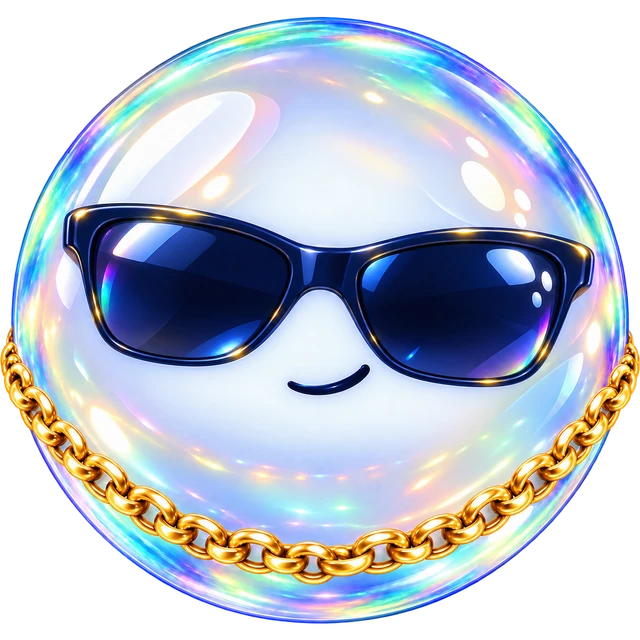
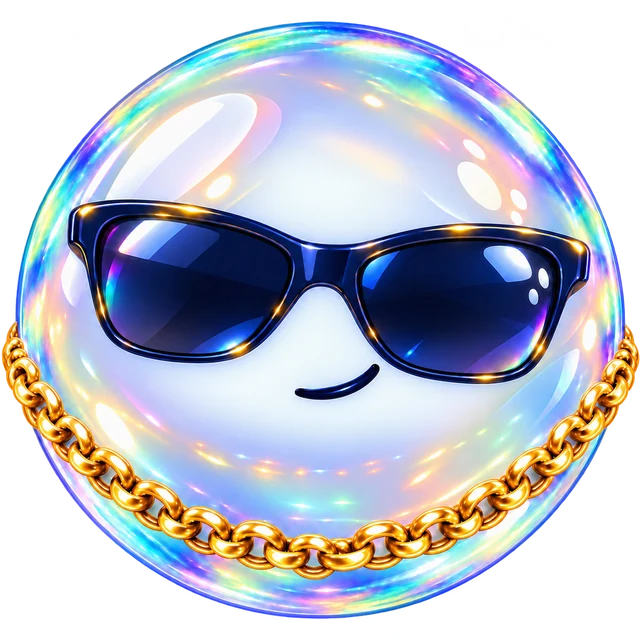
Boop's full expression set, placed where each one fits
Adds 20 new faces (soft and rainbow-rim sets) and gives them jobs:
hero idles through knowing, glance, wry and deadpan looks; tap drops the
shades (coolOh) and settles into the cool smirk; the too-late section
gets an annoyed Boop; the closing section opens on a joyful beat before
idling. Small notification icons render one fixed face with no timer, so
each instance loads only the frames it can show.

Claude-Session: https://claude.ai/code/session_01JCJ9Cii79kSKS6b9oMPbWV

diff --git a/app/site/chrome.tsx b/app/site/chrome.tsx
@@ -276,18 +276,37 @@ export function TopNav({ home = false }: { home?: boolean }) {
 /* ── Close ─────────────────────────────────────────────────────── */
 
 
-export type BoopMood = "neutral" | "knowing" | "wry" | "oh" | "happy" | "cool"
-const BOOP_FACES: BoopMood[] = ["neutral", "knowing", "wry", "oh", "happy", "cool"]
+export type BoopMood =
+  | "neutral" | "knowing" | "wry" | "glance" | "deadpan" | "oh" | "happy"
+  | "laugh" | "content" | "bliss" | "sheepish" | "annoyed" | "onit" | "skeptic" | "flat" | "peek" | "joy" | "cheer"
+  | "shades" | "boss" | "sideeye" | "wow" | "delight" | "cool" | "coolOh"
 
-/* Boop, alive: six drawn faces stacked and swapped in place. `mood`
-   overrides (hover, tap); otherwise he idles on a gentle smile and, every
-   few seconds, gives a knowing look, now and then a raised-eyebrow smirk.
-   Timers stay off under prefers-reduced-motion. */
-export function BoopFace({ mood, className = "" }: { mood?: BoopMood; className?: string }) {
+/* The bolder, rainbow-rim faces are framed wider so the chain fits; the
+   stylesheet scales them up so every bubble reads the same size. */
+const VIVID = new Set<BoopMood>(["shades", "boss", "sideeye", "wow", "delight", "cool", "coolOh"])
+const IDLE_GLANCES: BoopMood[] = ["knowing", "glance", "wry", "knowing", "deadpan"]
+
+/* Boop, alive: drawn faces stacked and swapped in place. `mood` overrides
+   (hover, tap, a section's beat); otherwise he idles on a gentle smile and,
+   every few seconds, glances: a knowing look, a sideways peek, a smirk, a
+   deadpan. `faces` preloads any extra faces a caller will switch to; `still`
+   renders one fixed face with no timer (small icons). Timers stay off under
+   prefers-reduced-motion. */
+export function BoopFace({
+  mood,
+  className = "",
+  faces = [],
+  still = false,
+}: {
+  mood?: BoopMood
+  className?: string
+  faces?: BoopMood[]
+  still?: boolean
+}) {
   const [idle, setIdle] = useState<BoopMood>("neutral")
 
   useEffect(() => {
-    if (typeof window === "undefined") return
+    if (still || typeof window === "undefined") return
     if (window.matchMedia("(prefers-reduced-motion: reduce)").matches) return
     let alive = true
     let t: ReturnType<typeof setTimeout>
@@ -295,9 +314,7 @@ export function BoopFace({ mood, className = "" }: { mood?: BoopMood; className?
     const loop = () => {
       t = setTimeout(() => {
         if (!alive) return
-        n += 1
-        const face: BoopMood = n % 3 === 0 ? "wry" : "knowing"
-        setIdle(face)
+        setIdle(IDLE_GLANCES[n++ % IDLE_GLANCES.length])
         t = setTimeout(() => {
           if (!alive) return
           setIdle("neutral")
@@ -307,15 +324,27 @@ export function BoopFace({ mood, className = "" }: { mood?: BoopMood; className?
     }
     loop()
     return () => { alive = false; clearTimeout(t) }
-  }, [])
+  }, [still])
 
   const face = mood ?? idle
+  const stack: BoopMood[] = still
+    ? [mood ?? "neutral"]
+    : Array.from(new Set<BoopMood>(["neutral", ...IDLE_GLANCES, ...faces, ...(mood ? [mood] : [])]))
   return (
     <span className={`boopFace ${className}`} aria-hidden="true">
-      {BOOP_FACES.map((f) => (
-        /* Plain <img>: six small stacked frames that must swap instantly. */
+      {stack.map((f) => (
+        /* Plain <img>: small stacked frames that must swap instantly. */
         // eslint-disable-next-line @next/next/no-img-element
-        <img key={f} src={`/assets/brand/boop/boop2-${f}.webp`} alt="" width={320} height={320} className={`${f}${f === face ? " on" : ""}`} decoding="async" />
+        <img
+          key={f}
+          src={`/assets/brand/boop/boop2-${f}.webp`}
+          alt=""
+          width={320}
+          height={320}
+          data-face={f}
+          className={`${VIVID.has(f) ? "vivid" : ""}${f === face ? " on" : ""}`}
+          decoding="async"
+        />
       ))}
     </span>
   )
@@ -323,13 +352,19 @@ export function BoopFace({ mood, className = "" }: { mood?: BoopMood; className?
 
 export function FinalCTA() {
   const [ref, inView] = useInView<HTMLDivElement>(0.4)
+  const [settled, setSettled] = useState(false)
+  useEffect(() => {
+    if (!inView) return
+    const t = setTimeout(() => setSettled(true), 2200)
+    return () => clearTimeout(t)
+  }, [inView])
 
   return (
     <section className="finalCta" ref={ref}>
       <div className="finalSky" aria-hidden="true" />
       <div className="reveal finalInner">
         <div className="finalMascot" aria-hidden="true">
-<BoopFace className="finalBoopImg" mood={inView ? undefined : "neutral"} />
+<BoopFace className="finalBoopImg" faces={["joy"]} mood={!inView ? "neutral" : settled ? undefined : "joy"} />
         </div>
         <div className={`finalArrival ${inView ? "finalArrivalIn" : ""}`} aria-hidden="true">
           <span className="finalArrivalRing" />

diff --git a/app/HomePageClient.tsx b/app/HomePageClient.tsx
@@ -253,9 +253,10 @@ const BoopBuddy = forwardRef<HTMLButtonElement, { onBoop: () => void }>(function
 ) {
   const [hops, setHops] = useState(0)
   const [hover, setHover] = useState(false)
-  const [thrilled, setThrilled] = useState(false)
-  const thrillT = useRef<ReturnType<typeof setTimeout> | undefined>(undefined)
-  useEffect(() => () => clearTimeout(thrillT.current), [])
+  /* Tap: the shades drop (a quick "oh") and settle into the cool smirk. */
+  const [tap, setTap] = useState<0 | 1 | 2>(0)
+  const thrillT = useRef<ReturnType<typeof setTimeout>[]>([])
+  useEffect(() => () => thrillT.current.forEach(clearTimeout), [])
 
   return (
     <button
@@ -267,14 +268,14 @@ const BoopBuddy = forwardRef<HTMLButtonElement, { onBoop: () => void }>(function
       onPointerLeave={() => setHover(false)}
       onClick={() => {
         setHops((h) => h + 1)
-        setThrilled(true)
-        clearTimeout(thrillT.current)
-        thrillT.current = setTimeout(() => setThrilled(false), 1700)
+        thrillT.current.forEach(clearTimeout)
+        setTap(1)
+        thrillT.current = [setTimeout(() => setTap(2), 380), setTimeout(() => setTap(0), 1900)]
         onBoop()
       }}
     >
       <span className={`boopBody ${hops > 0 ? "boopJump" : ""}`} key={`j${hops}`}>
-        <BoopFace className="boopImg" mood={thrilled ? "cool" : hover ? "oh" : undefined} />
+        <BoopFace className="boopImg" faces={["oh", "coolOh", "cool"]} mood={tap === 1 ? "coolOh" : tap === 2 ? "cool" : hover ? "oh" : undefined} />
       </span>
       <span className="boopShadow" aria-hidden="true" />
       <span className="boopCaption" key={`c${hops}-${hover && hops === 0 ? "h" : ""}`}>
@@ -845,7 +846,7 @@ function BenefitScene({ id }: { id: (typeof benefits)[number]["id"] }) {
         <div className="bsLock">
           <div className="bsLockTime">5:12</div>
           <div className="bsNotif">
-            <span className="bsNotifIcon"><BoopFace mood="neutral" /></span>
+            <span className="bsNotifIcon"><BoopFace mood="neutral" still /></span>
             <span className="bsNotifText">
               <span className="bsNotifApp">BoopThere &middot; now</span>
               <span className="bsNotifTitle">You&rsquo;re at Kroger</span>
@@ -963,7 +964,7 @@ function WhoSection() {
             <li className="whoCard" key={p.who} data-stagger>
               <span className="whoLabel">{p.who}</span>
               <div className="whoNotif" aria-hidden="true">
-                <span className="whoNotifIcon"><BoopFace mood="neutral" /></span>
+                <span className="whoNotifIcon"><BoopFace mood="neutral" still /></span>
                 <span className="whoNotifText">
                   <span className="whoNotifTitle">{p.place}</span>
                   <span className="whoNotifBody">{p.body}</span>
@@ -997,6 +998,7 @@ function ProblemSection() {
   return (
     <section className="chapter chapterSunk" id="problem">
       <div className="reveal shell narrow center">
+        <BoopFace className="lateBoop" mood="annoyed" still />
         <p className="eyebrow">The problem</p>
         <h2 className="h2 h2Center">
           You remembered.

diff --git a/app/site/chrome.css b/app/site/chrome.css
@@ -4502,15 +4502,16 @@ button.tierCta, button.priceNavCta {
   transition: opacity 70ms linear;
 }
 .boopFace img.on { opacity: 1; }
-/* Shades on: the tap payoff. The chain hangs past the bubble, so the
-   frame is wider; scale it so the bubble matches the other faces. */
-.boopFace img.cool { transform: scale(1.055); }
-.boopFace img.cool.on { animation: boopCoolOn 340ms cubic-bezier(.2,1.4,.4,1); }
+/* Rainbow-rim faces are framed wider (the chain hangs past the bubble);
+   scale them so the bubble matches the soft faces. */
+.boopFace img.vivid { transform: scale(1.048); }
+/* Shades drop: the tap payoff pops in. */
+.boopFace img[data-face="coolOh"].on { animation: boopCoolOn 320ms cubic-bezier(.2,1.4,.4,1); }
 @keyframes boopCoolOn {
-  0%   { transform: scale(.94); }
-  100% { transform: scale(1.055); }
+  0%   { transform: scale(.93); }
+  100% { transform: scale(1.048); }
 }
-@media (prefers-reduced-motion: reduce) { .boopFace img.cool.on { animation: none; } }
+@media (prefers-reduced-motion: reduce) { .boopFace img[data-face="coolOh"].on { animation: none; } }
 @keyframes boopShimmer {
   0%   { filter: hue-rotate(-10deg) saturate(1.05); }
   50%  { filter: hue-rotate(6deg) saturate(1.15) brightness(1.03); }
@@ -4784,3 +4785,8 @@ button.tierCta, button.priceNavCta {
 .whoLine { margin: 0; font-family: var(--font-display); font-weight: 600; font-size: 1.12rem; line-height: 1.3; letter-spacing: -0.012em; color: var(--ink); }
 @media (max-width: 1040px) { .whoGrid { grid-template-columns: repeat(2, minmax(0, 1fr)); } }
 @media (max-width: 560px)  { .whoGrid { grid-template-columns: 1fr; } }
+
+/* Too late: Boop is not thrilled either */
+.lateBoop { display: block; width: 88px; margin: 0 auto 14px; }
+.reveal.revealed .lateBoop { animation: lateWobble 1s cubic-bezier(.36,.07,.19,.97) .2s both; }
+@media (prefers-reduced-motion: reduce) { .reveal.revealed .lateBoop { animation: none; } }
